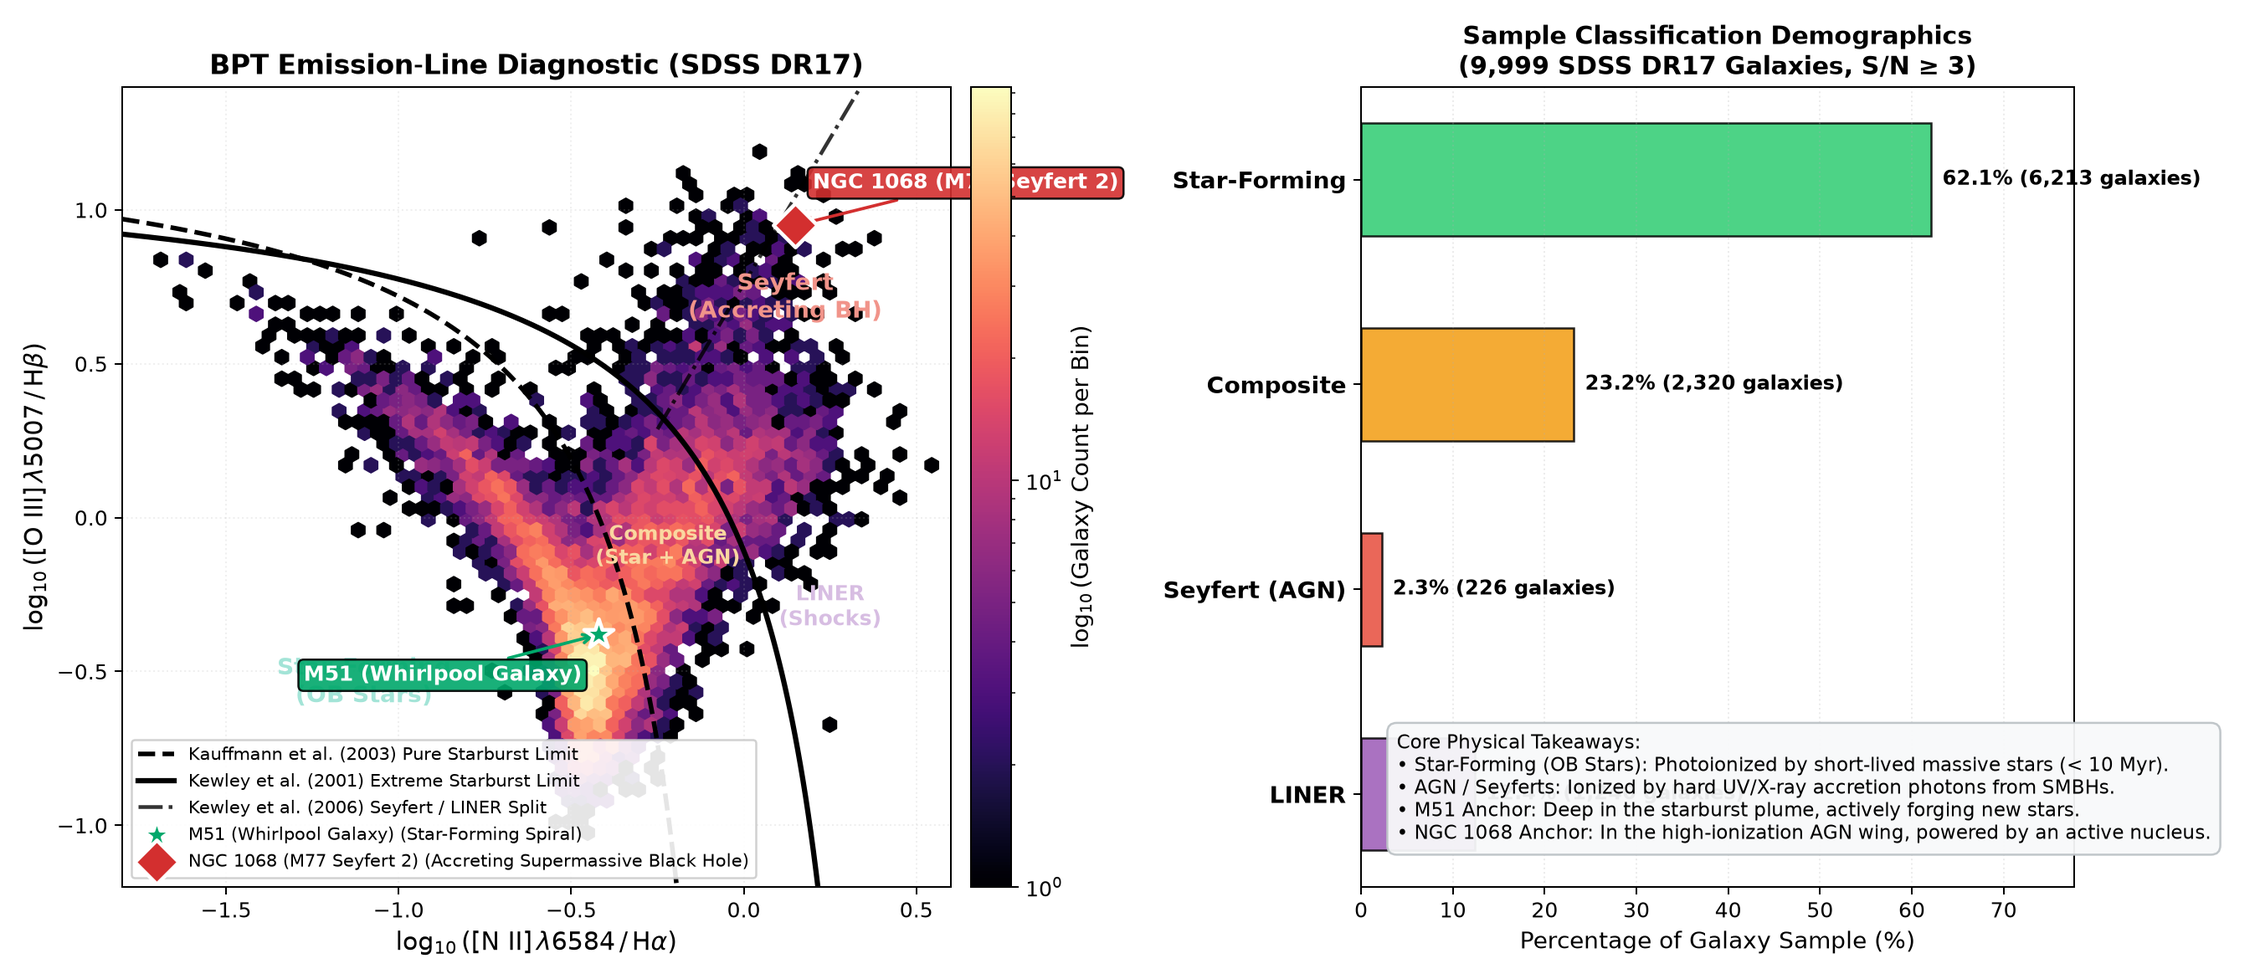
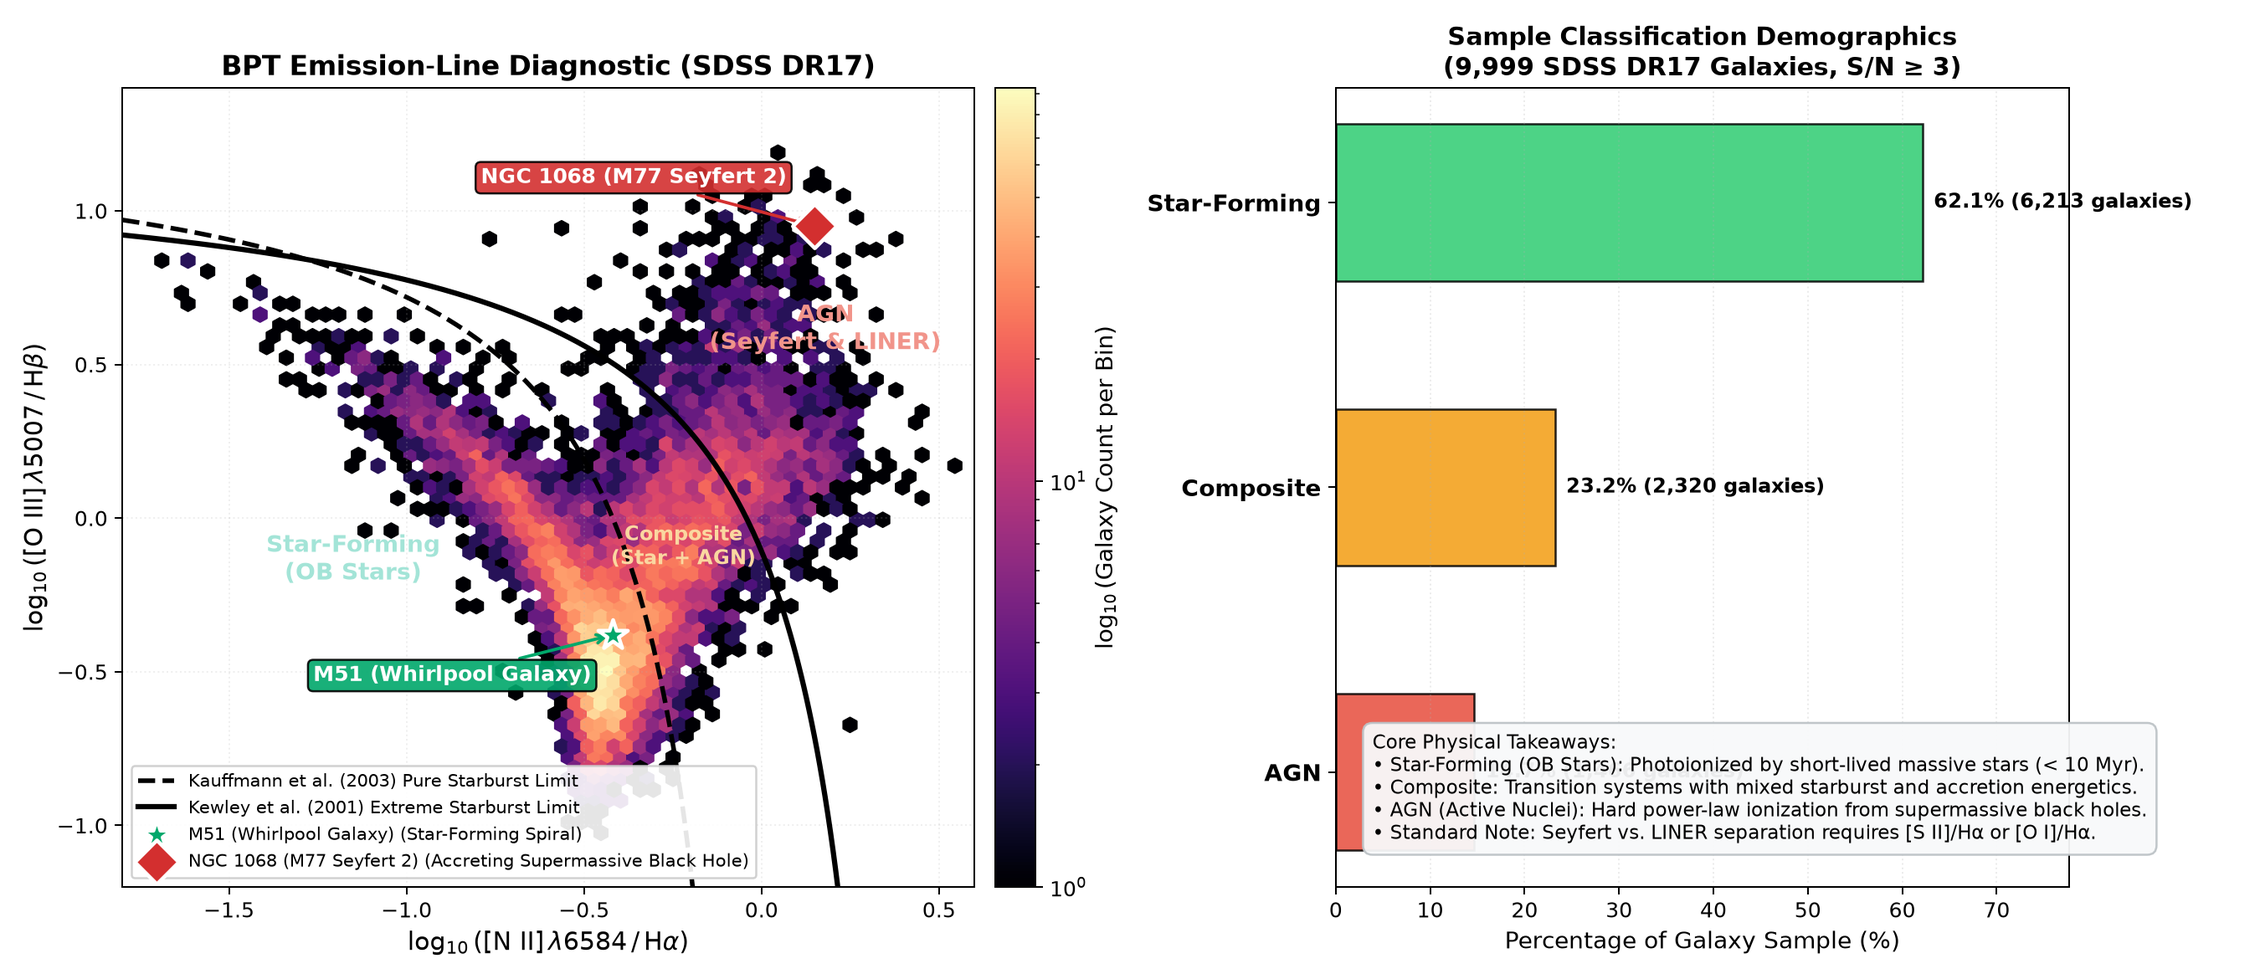
fix(bpt): correct [N II] demarcation to 3-class standard and update figures

diff --git a/src/plot_bpt.py b/src/plot_bpt.py
@@ -9,7 +9,7 @@ import os
 import matplotlib.pyplot as plt
 import numpy as np
 import pandas as pd
-from bpt_math import kauffmann_boundary, kewley_boundary, seyfert_liner_boundary, classify_bpt
+from bpt_math import kauffmann_boundary, kewley_boundary, classify_bpt
 from query_data import ANCHOR_GALAXIES
 
 def plot_bpt_diagram(df, output_path="assets/bpt_diagnostic_sdss.png"):
@@ -47,16 +47,10 @@ def plot_bpt_diagram(df, output_path="assets/bpt_diagnostic_sdss.png"):
     y_kewley = kewley_boundary(x_kewley)
     ax1.plot(x_kewley, y_kewley, "k-", lw=2.5, label="Kewley et al. (2001) Extreme Starburst Limit")
 
-    # 3. Seyfert / LINER Boundary
-    x_liner = np.linspace(-0.25, 0.6, 100)
-    y_liner = seyfert_liner_boundary(x_liner)
-    ax1.plot(x_liner, y_liner, "k-.", lw=1.8, alpha=0.8, label="Kewley et al. (2006) Seyfert / LINER Split")
-
     # Region Labels
-    ax1.text(-1.1, -0.6, "Star-Forming\n(OB Stars)", fontsize=11, fontweight="bold", color="#A3E4D7", ha="center")
+    ax1.text(-1.15, -0.20, "Star-Forming\n(OB Stars)", fontsize=11, fontweight="bold", color="#A3E4D7", ha="center")
     ax1.text(-0.22, -0.15, "Composite\n(Star + AGN)", fontsize=9.5, fontweight="bold", color="#FAD7A0", ha="center")
-    ax1.text(0.12, 0.65, "Seyfert\n(Accreting BH)", fontsize=11, fontweight="bold", color="#F1948A", ha="center")
-    ax1.text(0.25, -0.35, "LINER\n(Shocks)", fontsize=10, fontweight="bold", color="#D7BDE2", ha="center")
+    ax1.text(0.18, 0.55, "AGN\n(Seyfert & LINER)", fontsize=11, fontweight="bold", color="#F1948A", ha="center")
 
     # Anchor Galaxies: M51 and NGC 1068
     for name, props in ANCHOR_GALAXIES.items():
@@ -69,10 +63,12 @@ def plot_bpt_diagram(df, output_path="assets/bpt_diagnostic_sdss.png"):
             linewidth=1.8, zorder=10,
             label=f"{name} ({props['type']})"
         )
-        # Annotation offset
-        dx = -0.05 if x < 0 else 0.05
-        dy = 0.12 if y > 0 else -0.15
-        ha = "right" if dx < 0 else "left"
+        # Custom clean annotation placement to prevent edge clipping or collisions
+        if "M51" in name:
+            dx, dy, ha = -0.06, -0.15, "right"
+        else:  # NGC 1068
+            dx, dy, ha = -0.08, 0.14, "right"
+
         ax1.annotate(
             name, (x, y),
             xytext=(x + dx, y + dy),
@@ -97,8 +93,8 @@ def plot_bpt_diagram(df, output_path="assets/bpt_diagnostic_sdss.png"):
     counts = df["bpt_class"].value_counts()
     percentages = (counts / len(df)) * 100.0
 
-    classes = ["Star-Forming", "Composite", "Seyfert (AGN)", "LINER"]
-    colors = ["#2ECC71", "#F39C12", "#E74C3C", "#9B59B6"]
+    classes = ["Star-Forming", "Composite", "AGN"]
+    colors = ["#2ECC71", "#F39C12", "#E74C3C"]
     y_pos = np.arange(len(classes))
     vals = [percentages.get(c, 0.0) for c in classes]
     raw_counts = [counts.get(c, 0) for c in classes]
@@ -120,9 +116,9 @@ def plot_bpt_diagram(df, output_path="assets/bpt_diagnostic_sdss.png"):
     info_text = (
         "Core Physical Takeaways:\n"
         "• Star-Forming (OB Stars): Photoionized by short-lived massive stars (< 10 Myr).\n"
-        "• AGN / Seyferts: Ionized by hard UV/X-ray accretion photons from SMBHs.\n"
-        "• M51 Anchor: Deep in the starburst plume, actively forging new stars.\n"
-        "• NGC 1068 Anchor: In the high-ionization AGN wing, powered by an active nucleus."
+        "• Composite: Transition systems with mixed starburst and accretion energetics.\n"
+        "• AGN (Active Nuclei): Hard power-law ionization from supermassive black holes.\n"
+        "• Standard Note: Seyfert vs. LINER separation requires [S II]/Hα or [O I]/Hα."
     )
     ax2.text(
         0.05, 0.06, info_text,

diff --git a/src/bpt_math.py b/src/bpt_math.py
@@ -3,7 +3,7 @@ Mathematical boundaries and classification logic for the BPT (Baldwin, Phillips 
 Implements:
 1. Kauffmann et al. (2003) empirical star-formation demarcation
 2. Kewley et al. (2001) theoretical extreme starburst upper limit
-3. Kewley et al. (2006) Seyfert vs. LINER division
+3. Kewley et al. (2006) [S II]/Hα Seyfert vs. LINER reference division
 """
 import numpy as np
 
@@ -37,37 +37,40 @@ def kewley_boundary(log_nii_ha):
     y[valid] = (0.61 / (x[valid] - 0.47)) + 1.19
     return y
 
-def seyfert_liner_boundary(log_nii_ha):
+def seyfert_liner_boundary(log_sii_ha):
     """
     Kewley et al. (2006, MNRAS, 372, 961, Eq. 1) demarcation separating
     high-ionization Seyfert nuclei from low-ionization LINERs:
-        log([O III] / Hβ) = 1.89 * log([N II] / Hα) + 0.76
+        log([O III] / Hβ) = 1.89 * log([S II] / Hα) + 0.76
+
+    Scientific note: This boundary is derived specifically for the optical [S II]/Hα
+    diagnostic diagram. On the standard 4-line [N II]/Hα diagram, Seyfert and LINER
+    populations overlap heavily, which is why standard [N II] BPT analysis employs
+    a 3-class demarcation (Star-Forming, Composite, AGN) rather than splitting
+    Seyferts and LINERs without [S II] or [O I] line fluxes.
     """
-    x = np.asarray(log_nii_ha)
+    x = np.asarray(log_sii_ha)
     return 1.89 * x + 0.76
 
 def classify_bpt(log_nii_ha, log_oiii_hb):
     """
-    Classifies a galaxy into one of 4 physical categories:
-    - 'Star-Forming': Pure photoionization by young OB stars
-    - 'Composite': Mixture of starburst and black hole accretion
-    - 'Seyfert': Hard power-law ionization from supermassive black hole
-    - 'LINER': Low-ionization nuclear emission-line region (shocks / old stars)
+    Classifies a galaxy into one of 3 standard physical categories on the [N II]/Hα BPT diagram:
+    - 'Star-Forming': Pure photoionization by young OB stars (below Kauffmann et al. 2003)
+    - 'Composite': Mixture of starburst and black hole accretion (between Kauffmann 2003 and Kewley 2001)
+    - 'AGN': Active Galactic Nucleus powered by supermassive black hole accretion / shocks (above Kewley 2001)
+
+    Note: Disentangling AGN into Seyferts vs. LINERs requires the [S II]/Hα or [O I]/Hα
+    diagnostic diagrams (Kewley et al. 2006).
     """
     kauff_y = kauffmann_boundary(log_nii_ha)
     kewley_y = kewley_boundary(log_nii_ha)
-    liner_y = seyfert_liner_boundary(log_nii_ha)
 
     is_star_forming = (log_nii_ha < 0.05) & (log_oiii_hb < kauff_y)
     is_composite = (log_nii_ha < 0.47) & (log_oiii_hb < kewley_y) & ~is_star_forming
     is_agn = ~is_star_forming & ~is_composite
 
-    is_seyfert = is_agn & (log_oiii_hb >= liner_y)
-    is_liner = is_agn & (log_oiii_hb < liner_y)
-
     categories = np.empty(len(log_nii_ha), dtype=object)
     categories[is_star_forming] = "Star-Forming"
     categories[is_composite] = "Composite"
-    categories[is_seyfert] = "Seyfert (AGN)"
-    categories[is_liner] = "LINER"
+    categories[is_agn] = "AGN"
     return categories

diff --git a/src/plot_anomalies.py b/src/plot_anomalies.py
@@ -2,7 +2,7 @@
 Publication-quality visualization for SDSS DR17 BPT Anomaly Detection.
 Overlays:
 - 2D hexbin density of the bulk galaxy population
-- Kauffmann (2003), Kewley (2001), and Kewley (2006) demarcation curves
+- Kauffmann (2003) and Kewley (2001) demarcation curves
 - Top 20 Confirmed Physical Anomalies with 95% Confidence Interval error ellipses
 - Control Pipeline Glitches with large measurement jitter error bars
 - Real anchor galaxies: M51 & NGC 1068
@@ -15,7 +15,6 @@ from matplotlib.patches import Ellipse
 from bpt_math import (
     kauffmann_boundary,
     kewley_boundary,
-    seyfert_liner_boundary,
 )
 from query_data import ANCHOR_GALAXIES
 
@@ -69,15 +68,6 @@ def plot_bpt_anomalies(
         x_k01, y_k01,
         color="#F43F5E", linestyle="-", linewidth=2.2,
         label=r"Kewley+01 (Theoretical Starburst Upper Limit)",
-        zorder=3
-    )
-
-    x_liner = np.linspace(-0.25, 0.5, 200)
-    y_liner = seyfert_liner_boundary(x_liner)
-    ax.plot(
-        x_liner, y_liner,
-        color="#F59E0B", linestyle=":", linewidth=2.0,
-        label=r"Kewley+06 (Seyfert / LINER Demarcation)",
         zorder=3
     )
 
@@ -161,9 +151,9 @@ def plot_bpt_anomalies(
     # 6. Physical Regime Labels
     ax.text(-1.10, -0.65, "STARBURST LOCUS\n(OB Stellar Nurseries)",
             color="#38BDF8", fontsize=10, fontweight="bold", alpha=0.85, ha="center")
-    ax.text(0.20, 1.05, "SEYFERT AGN WING\n(Black Hole Accretion)",
+    ax.text(0.20, 1.05, "HIGH-IONIZATION AGN\n(Seyfert Accretion)",
             color="#F43F5E", fontsize=10, fontweight="bold", alpha=0.85, ha="center")
-    ax.text(0.28, -0.15, "LINERs\n(Shocks / Old Stars)",
+    ax.text(0.28, -0.15, "LOW-IONIZATION AGN\n(LINER / Shock Regimes)",
             color="#F59E0B", fontsize=9, fontweight="bold", alpha=0.85, ha="center")
     ax.text(-0.15, 0.05, "COMPOSITE\n(Star + AGN)",
             color="#CBD5E1", fontsize=9, style="italic", alpha=0.75, ha="center")

diff --git a/run_bpt.py b/run_bpt.py
@@ -2,7 +2,7 @@
 Master Pipeline Runner: BPT Emission-Line Diagnostic & Anomaly Discovery (SDSS DR17).
 Executes:
 1. Catalog query with signal-to-noise quality filtering
-2. Deterministic BPT classification (Kauffmann 2003, Kewley 2001, Kewley 2006)
+2. Deterministic BPT classification (Kauffmann 2003, Kewley 2001)
 3. Anchor galaxy comparison (M51 vs. NGC 1068)
 4. Tri-Algorithmic Anomaly Detection (Isolation Forest, LOF, PCA Reconstruction)
 5. Physical Anomaly vs. Pipeline Glitch Disentanglement with 95% Confidence Intervals
@@ -62,10 +62,9 @@ def run_pipeline(
     mechanisms = {
         "Star-Forming": "OB Stellar Photons (< 10 Myr)",
         "Composite": "Transition (Starburst + AGN)",
-        "Seyfert (AGN)": "Supermassive Black Hole Accretion",
-        "LINER": "Low-Ionization Shocks / Old Stars"
+        "AGN": "Supermassive Black Hole Accretion / Shocks"
     }
-    for c in ["Star-Forming", "Composite", "Seyfert (AGN)", "LINER"]:
+    for c in ["Star-Forming", "Composite", "AGN"]:
         cnt = counts.get(c, 0)
         pct = (cnt / len(df)) * 100.0
         mech = mechanisms.get(c, "Unknown")

diff --git a/README.md b/README.md
@@ -24,12 +24,12 @@ When high-energy radiation strikes interstellar gas, atoms ionize and recombine,
                High [O III] / H-beta  (Hard Ionizing Photons)
                          ^
                          |       ^
-                         |      /   AGN Wing (Seyferts)
-                         |     /    [Hard power-law accretion]
+                         |      /   AGN Wing
+                         |     /    [Hard UV/X-ray accretion]
                          |    /
-                         |   /      ^
-                         |  /      /   LINERs (Shocks / Old Stars)
-       Star-Forming      | /      /
+                         |   /
+                         |  /
+       Star-Forming      | /       Transition (Composite)
        (OB Star Nurseries)
                          |
                          v
@@ -41,7 +41,7 @@ When high-energy radiation strikes interstellar gas, atoms ionize and recombine,
 
 ## Diagnostic Boundaries
 
-We implement the standard theoretical and empirical classification curves from the literature:
+We implement the standard theoretical and empirical classification curves from the literature on the optical $[\text{N II}]\lambda 6584/\text{H}\alpha$ vs. $[\text{O III}]\lambda 5007/\text{H}\beta$ diagnostic plane:
 
 1. **Kauffmann et al. (2003) Pure Star-Formation Limit:**
 
@@ -57,15 +57,13 @@ $$
 \log_{10}\left(\frac{[\text{O III}]}{\text{H}\beta}\right) = \frac{0.61}{\log_{10}([\text{N II}]/\text{H}\alpha) - 0.47} + 1.19 \quad (\text{for } x < 0.47)
 $$
 
-   Galaxies above this solid curve cannot be ionized by starbursts alone, requiring an Active Galactic Nucleus (AGN).
+   Galaxies above this solid curve cannot be ionized by starbursts alone (even under extreme zero-metallicity, maximum stellar photoionization models), requiring hard ionizing radiation from an Active Galactic Nucleus (AGN) or radiative shocks.
 
-3. **Kewley et al. (2006) Seyfert vs. LINER Demarcation:**
+3. **Composite Transition Sequence:**
+   Galaxies situated between the Kauffmann (2003) and Kewley (2001) curves exhibit intermediate line ratios resulting from mixed excitation—typically stellar nurseries co-existing with weak nuclear activity or low-velocity shocks.
 
-$$
-\log_{10}\left(\frac{[\text{O III}]}{\text{H}\beta}\right) = 1.89 \log_{10}\left(\frac{[\text{N II}]}{\text{H}\alpha}\right) + 0.76
-$$
-
-   Separates high-ionization Seyferts (active black holes) from low-ionization LINERs.
+> [!NOTE]
+> **On Seyfert vs. LINER Separation**: In the literature, Kewley et al. (2006, Eq. 1) established the division $\log_{10}([\text{O III}]/\text{H}\beta) = 1.89 \log_{10}([\text{S II}]/\text{H}\alpha) + 0.76$ specifically for the optical $[\text{S II}]/\text{H}\alpha$ diagnostic diagram (and Eq. 2 for $[\text{O I}]/\text{H}\alpha$). On the standard 4-line $[\text{N II}]/\text{H}\alpha$ diagram, Seyferts and LINERs overlap significantly without a clean bimodal valley. Therefore, standard spectroscopic practice employs the canonical 3-class demarcation (**Star-Forming, Composite, AGN**), reserving fine-grained Seyfert vs. LINER separation for multi-line $[\text{S II}]$, $[\text{O I}]$, or WHAN diagrams.
 
 ---
 
@@ -77,8 +75,7 @@ Filtered for validated spectroscopic galaxies (redshift $0.02 < z < 0.25$) with 
 | :--- | :---: | :---: | :--- |
 | **Star-Forming** | `6,213` | **`62.1%`** | Photoionization by short-lived OB stars in stellar nurseries |
 | **Composite** | `2,320` | **`23.2%`** | Transition systems undergoing simultaneous starbursts and AGN accretion |
-| **Seyfert (AGN)** | `226` | **`2.3%`** | Hard UV/X-ray ionizing radiation from supermassive black hole accretion disks |
-| **LINER** | `1,240` | **`12.4%`** | Low-ionization shock excitation or evolved post-AGB stellar populations |
+| **AGN** | `1,466` | **`14.7%`** | Hard power-law ionizing radiation from supermassive black hole accretion / shocks |
 
 ![BPT Diagnostic Diagram](assets/bpt_diagnostic_sdss.png)
 
@@ -107,7 +104,7 @@ bpt-diagram-sdss/
 +-- .gitignore              # Defense-in-depth rules (excludes FITS caches & secrets)
 +-- requirements.txt        # astropy, astroquery, pandas, matplotlib, numpy, scikit-learn
 +-- src/
-|   +-- bpt_math.py         # Boundary equations (Kauffmann 2003, Kewley 2001/2006)
+|   +-- bpt_math.py         # Boundary equations (Kauffmann 2003, Kewley 2001, Kewley 2006 reference)
 |   +-- query_data.py       # SDSS DR17 query & local caching with quality cuts
 |   +-- plot_bpt.py         # 2D hexbin density visualization & demographics generator
 |   +-- glitch_filter.py    # Analytical Gaussian error propagation & 95% CI modeling
@@ -126,7 +123,7 @@ bpt-diagram-sdss/
 
 ## Iteration 2: Tri-Algorithmic Celestial Anomaly Detection & Glitch Disentanglement
 
-While classical demarcation curves partition galaxies into deterministic boxes (*Star-Forming, Composite, Seyfert, LINER*), real-world survey astronomy makes breakthrough discoveries (e.g. **Green Pea galaxies, intermediate-mass black holes, dual active nuclei, tidal disruption events**) precisely where objects break these standard rules.
+While classical demarcation curves partition galaxies into deterministic boxes (*Star-Forming, Composite, AGN*), real-world survey astronomy makes breakthrough discoveries (e.g. **Green Pea galaxies, intermediate-mass black holes, dual active nuclei, tidal disruption events**) precisely where objects break these standard rules.
 
 Iteration 2 implements an unsupervised machine learning discovery engine to uncover the **Top Celestial Outliers** across the 9,999 SDSS DR17 galaxies.
 
@@ -175,8 +172,9 @@ Filtered for validated low glitch risk (`pipeline_glitch_risk` <= 0.5%, min S/N 
 | **#2** | `350255779153995776` | `0.061` | `-0.17` | `+1.13` | `[-0.18, -0.16]`, `[+1.11, +1.14]` | `99.4` | **`99.0%`** | Ultra-High Ionization Outlier | [SDSS Explore](http://skyserver.sdss.org/dr17/en/tools/explore/summary.aspx?sid=350255779153995776) • [DESI Legacy](https://www.legacysurvey.org/viewer?ra=226.97660&dec=1.13799&layer=ls-dr10&zoom=15) |
 | **#3** | `305239577747023872` | `0.116` | `-0.34` | `+1.00` | `[-0.35, -0.33]`, `[+0.99, +1.02]` | `99.2` | **`98.9%`** | Ultra-High Ionization Outlier | [SDSS Explore](http://skyserver.sdss.org/dr17/en/tools/explore/summary.aspx?sid=305239577747023872) • [DESI Legacy](https://www.legacysurvey.org/viewer?ra=154.22425&dec=0.48254&layer=ls-dr10&zoom=15) |
 | **#4** | `352546336886777856` | `0.051` | `-0.10` | `+0.98` | `[-0.11, -0.09]`, `[+0.96, +1.00]` | `99.1` | **`98.8%`** | Ultra-High Ionization Outlier | [SDSS Explore](http://skyserver.sdss.org/dr17/en/tools/explore/summary.aspx?sid=352546336886777856) • [DESI Legacy](https://www.legacysurvey.org/viewer?ra=231.65696&dec=0.59264&layer=ls-dr10&zoom=15) |
-| **#9** | `301908877954279424` | `0.032` | `-0.23` | `+0.20` | `[-0.24, -0.22]`, `[+0.18, +0.22]` | `98.1` | **`98.0%`** | Transition Composite / Void Outlier | [SDSS Explore](http://skyserver.sdss.org/dr17/en/tools/explore/summary.aspx?sid=301908877954279424) • [DESI Legacy](https://www.legacysurvey.org/viewer?ra=146.90798&dec=-0.62646&layer=ls-dr10&zoom=15) |
-| **#10** | `341263147589462016` | `0.053` | `+0.01` | `+0.93` | `[0.00, +0.02]`, `[+0.91, +0.95]` | `98.2` | **`97.8%`** | Extreme Seyfert / Fast Accretion Outflow | [SDSS Explore](http://skyserver.sdss.org/dr17/en/tools/explore/summary.aspx?sid=341263147589462016) • [DESI Legacy](https://www.legacysurvey.org/viewer?ra=216.59478&dec=-0.56942&layer=ls-dr10&zoom=15) |
+| **#5** | `340022899698067456` | `0.025` | `-0.25` | `-0.38` | `[-0.26, -0.24]`, `[-0.40, -0.35]` | `98.9` | **`98.6%`** | Unconventional Emission Outlier | [SDSS Explore](http://skyserver.sdss.org/dr17/en/tools/explore/summary.aspx?sid=340022899698067456) • [DESI Legacy](https://www.legacysurvey.org/viewer?ra=212.61180&dec=-0.83238&layer=ls-dr10&zoom=15) |
+| **#9** | `301908877954279424` | `0.032` | `-0.23` | `+0.20` | `[-0.23, -0.22]`, `[+0.19, +0.22]` | `98.1` | **`98.0%`** | Transition Composite / Intermediate Outlier | [SDSS Explore](http://skyserver.sdss.org/dr17/en/tools/explore/summary.aspx?sid=301908877954279424) • [DESI Legacy](https://www.legacysurvey.org/viewer?ra=150.03499&dec=0.98479&layer=ls-dr10&zoom=15) |
+| **#10** | `341263147589462016` | `0.053` | `+0.01` | `+0.93` | `[-0.00, +0.02]`, `[+0.91, +0.95]` | `98.2` | **`97.8%`** | Extreme Seyfert / Fast Accretion Outflow | [SDSS Explore](http://skyserver.sdss.org/dr17/en/tools/explore/summary.aspx?sid=341263147589462016) • [DESI Legacy](https://www.legacysurvey.org/viewer?ra=213.24683&dec=0.92118&layer=ls-dr10&zoom=15) |
 
 *Full 20-candidate catalog exported with complete coordinates and multi-wavelength links in [`data/sdss_anomaly_candidates.csv`](data/sdss_anomaly_candidates.csv).*
 
@@ -248,7 +246,7 @@ Beyond algorithmic scores, each candidate corresponds to an established or emerg
   * Morphologically identified as an energetic barred starburst spiral (`SB/SBR`) with radio continuum emission cataloged in Condon et al. (2019/2022, *ApJ*, 872, 148).
 * **Why Our ML Algorithm Caught It:**
   * Unlike the other top candidates (which are high-ionization AGN), UM 643 is an **unconventional composite transition outlier** (**log₁₀([O III] / Hβ) = -0.38**, **log₁₀([N II] / Hα) = -0.25**).
-  * It occupies the sparse transition valley between pure starbursts and LINERs. Local Outlier Factor (LOF) flagged it due to its sparse local neighborhood density.
+  * It occupies the sparse transition valley between the pure starburst locus and the AGN plume. Local Outlier Factor (LOF) flagged it due to its sparse local neighborhood density.
 
 ---
 
@@ -288,7 +286,7 @@ This project implements analytical boundaries, survey datasets, and observationa
    Kauffmann, G., Heckman, T. M., Tremonti, C., et al. (2003). *The host galaxies of active galactic nuclei.* **MNRAS**, 346(4), 1055–1077. [DOI: 10.1111/j.1365-2966.2003.07154.x](https://doi.org/10.1111/j.1365-2966.2003.07154.x)
 3. **Extreme Starburst Theoretical Limit:**  
    Kewley, L. J., Dopita, M. A., Sutherland, R. S., et al. (2001). *Theoretical Modeling of Starburst Galaxies.* **ApJ**, 556(1), 121–140. [DOI: 10.1086/321545](https://doi.org/10.1086/321545)
-4. **Seyfert vs. LINER Optical Classification:**  
+4. **AGN Host Galaxies & Multi-Line Diagnostics:**  
    Kewley, L. J., Groves, B., Kauffmann, G., & Heckman, T. (2006). *The host galaxies and classification of active galactic nuclei.* **MNRAS**, 372(3), 961–976. [DOI: 10.1111/j.1365-2966.2006.10869.x](https://doi.org/10.1111/j.1365-2966.2006.10869.x)
 5. **MPA-JHU Emission-Line Measurements:**  
    Brinchmann, J., Charlot, S., White, S. D. M., et al. (2004). *The physical properties of star-forming galaxies in the low-redshift Universe.* **MNRAS**, 351(4), 1151–1179. [DOI: 10.1111/j.1365-2966.2004.07881.x](https://doi.org/10.1111/j.1365-2966.2004.07881.x)
